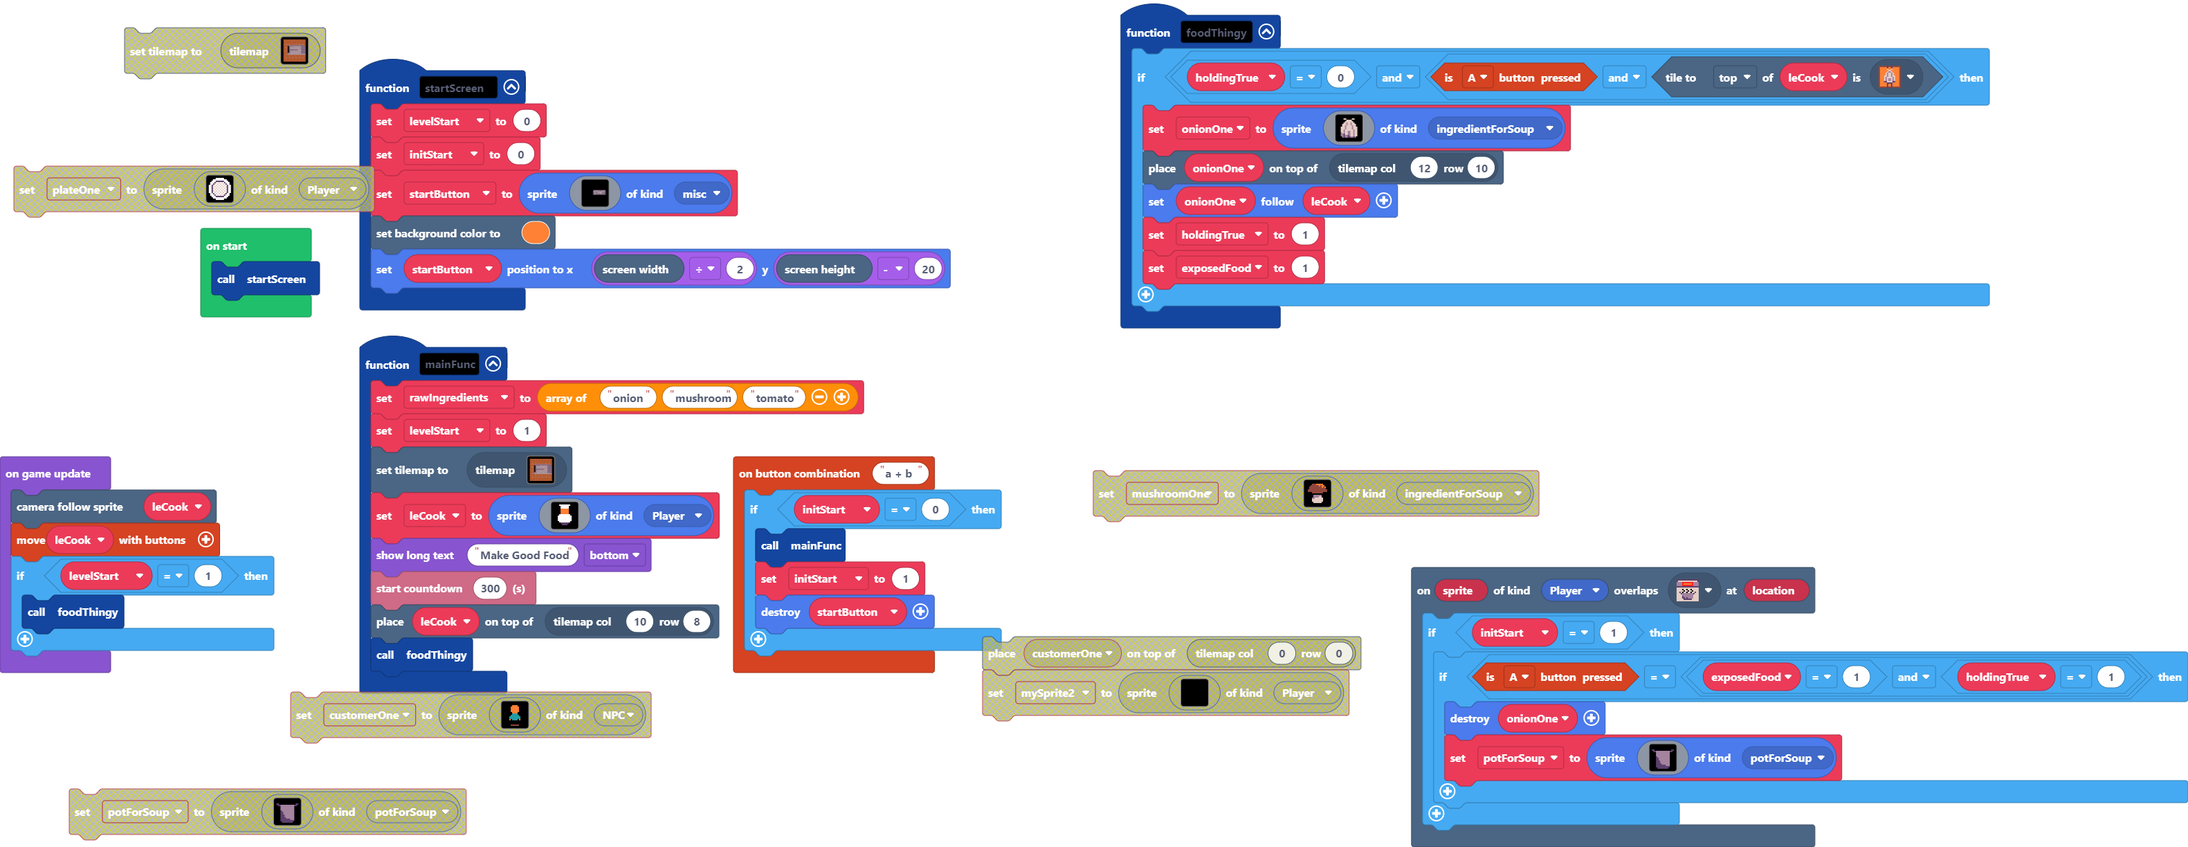
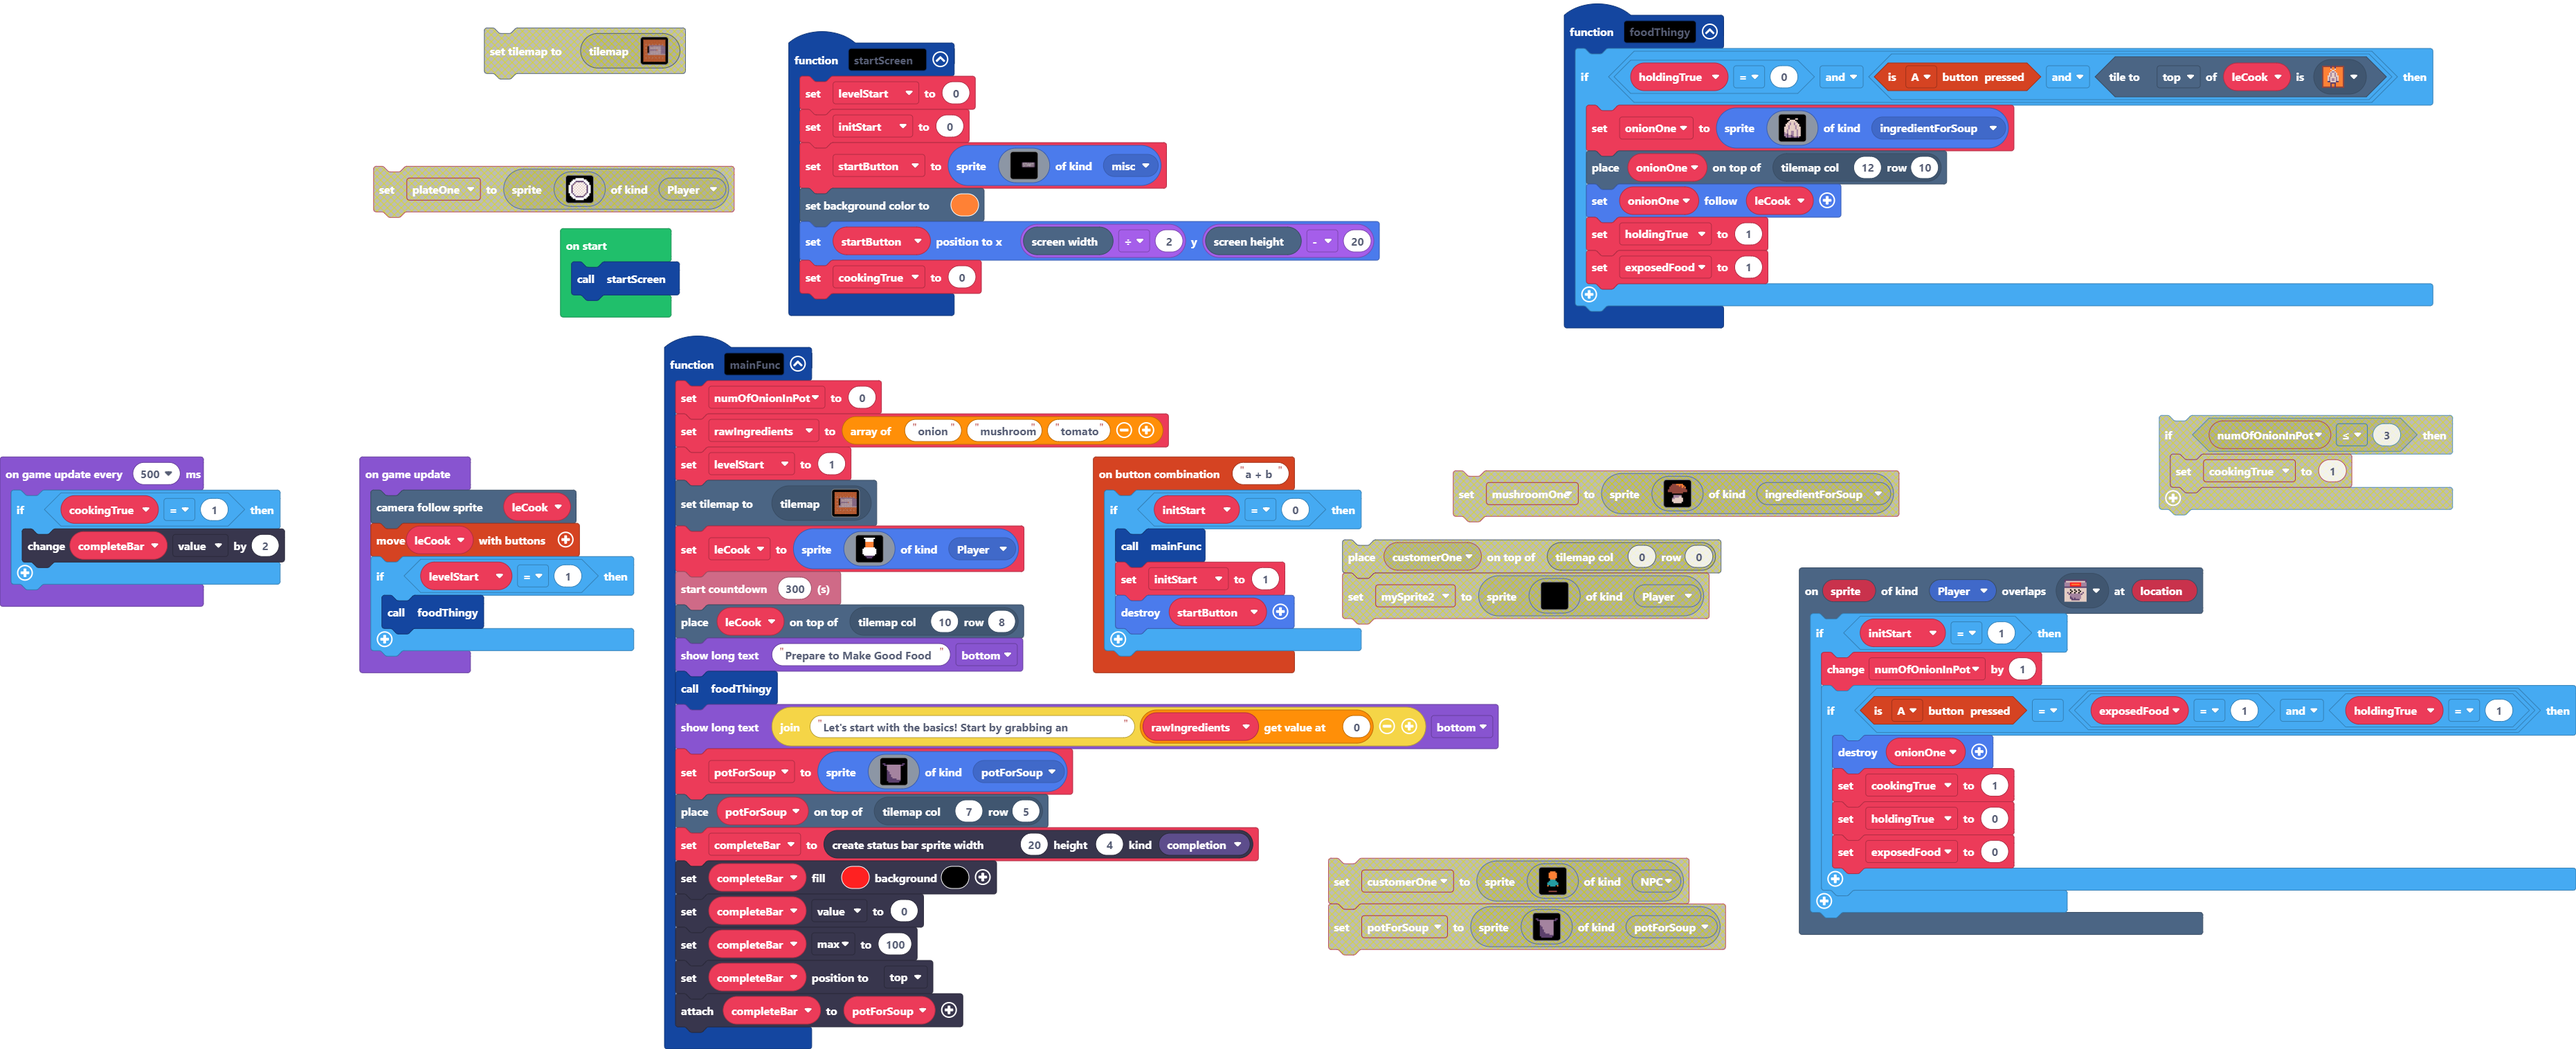
Update main.blocks, main.ts

diff --git a/main.ts b/main.ts
@@ -4,28 +4,17 @@ namespace SpriteKind {
     export const potForSoup = SpriteKind.create()
     export const ingredientForSoup = SpriteKind.create()
 }
+namespace StatusBarKind {
+    export const completion = StatusBarKind.create()
+}
 scene.onOverlapTile(SpriteKind.Player, assets.tile`myTile6`, function (sprite, location) {
     if (initStart == 1) {
+        numOfOnionInPot += 1
         if (controller.A.isPressed() == (exposedFood == 1 && holdingTrue == 1)) {
             onionOne.destroy()
-            potForSoup = sprites.create(img`
-                . . . . . . . . . . . . . . . . 
-                . . . . . . . . . . . . . . . . 
-                c c . . . . . . . . . . . . c c 
-                . c c b b b b b b b b b b c c . 
-                . . . b b b b b b b b b b . . . 
-                . . . b b b b b b b b b b . . . 
-                . . . b b b b b b b b b b . . . 
-                . . . c b b b b b b b b b . . . 
-                . . . c c b b b b b b b b . . . 
-                . . . c c b b b b b b b b . . . 
-                . . . c c c b b b b b b b . . . 
-                . . . c c c b b b b b b b . . . 
-                . . . c c c c b b b b b b . . . 
-                . . . c c c c c c c b b b . . . 
-                . . . c c c c c c c c c c . . . 
-                . . . . c c c c c c c c . . . . 
-                `, SpriteKind.potForSoup)
+            cookingTrue = 1
+            holdingTrue = 0
+            exposedFood = 0
         }
     }
 })
@@ -37,6 +26,7 @@ controller.combos.attachCombo("a + b", function () {
     }
 })
 function mainFunc () {
+    numOfOnionInPot = 0
     rawIngredients = ["onion", "mushroom", "tomato"]
     levelStart = 1
     tiles.setCurrentTilemap(tilemap`level1`)
@@ -58,10 +48,36 @@ function mainFunc () {
         . . . . . . c c c c . . . . . . 
         . . . . f f f f f f f f . . . . 
         `, SpriteKind.Player)
-    game.showLongText("Make Good Food", DialogLayout.Bottom)
     info.startCountdown(300)
     tiles.placeOnTile(leCook, tiles.getTileLocation(10, 8))
+    game.showLongText("Prepare to Make Good Food", DialogLayout.Bottom)
     foodThingy()
+    game.showLongText("Let's start with the basics! Start by grabbing an" + rawIngredients[0], DialogLayout.Bottom)
+    potForSoup = sprites.create(img`
+        . . . . . . . . . . . . . . . . 
+        . . . . . . . . . . . . . . . . 
+        c c . . . . . . . . . . . . c c 
+        . c c b b b b b b b b b b c c . 
+        . . . b b b b b b b b b b . . . 
+        . . . b b b b b b b b b b . . . 
+        . . . b b b b b b b b b b . . . 
+        . . . c b b b b b b b b b . . . 
+        . . . c c b b b b b b b b . . . 
+        . . . c c b b b b b b b b . . . 
+        . . . c c c b b b b b b b . . . 
+        . . . c c c b b b b b b b . . . 
+        . . . c c c c b b b b b b . . . 
+        . . . c c c c c c c b b b . . . 
+        . . . c c c c c c c c c c . . . 
+        . . . . c c c c c c c c . . . . 
+        `, SpriteKind.potForSoup)
+    tiles.placeOnTile(potForSoup, tiles.getTileLocation(7, 5))
+    completeBar = statusbars.create(20, 4, StatusBarKind.completion)
+    completeBar.setColor(2, 15)
+    completeBar.value = 0
+    completeBar.max = 100
+    completeBar.positionDirection(CollisionDirection.Top)
+    completeBar.attachToSprite(potForSoup)
 }
 function startScreen () {
     levelStart = 0
@@ -86,6 +102,7 @@ function startScreen () {
         `, SpriteKind.misc)
     scene.setBackgroundColor(4)
     startButton.setPosition(scene.screenWidth() / 2, scene.screenHeight() - 20)
+    cookingTrue = 0
 }
 function foodThingy () {
     if (holdingTrue == 0 && (controller.A.isPressed() && leCook.tileKindAt(TileDirection.Top, assets.tile`myTile`))) {
@@ -96,14 +113,17 @@ function foodThingy () {
         exposedFood = 1
     }
 }
+let completeBar: StatusBarSprite = null
+let potForSoup: Sprite = null
 let leCook: Sprite = null
 let levelStart = 0
 let rawIngredients: string[] = []
 let startButton: Sprite = null
-let potForSoup: Sprite = null
+let cookingTrue = 0
 let onionOne: Sprite = null
 let holdingTrue = 0
 let exposedFood = 0
+let numOfOnionInPot = 0
 let initStart = 0
 startScreen()
 game.onUpdate(function () {
@@ -111,5 +131,10 @@ game.onUpdate(function () {
     controller.moveSprite(leCook)
     if (levelStart == 1) {
         foodThingy()
+    }
+})
+game.onUpdateInterval(500, function () {
+    if (cookingTrue == 1) {
+        completeBar.value += 2
     }
 })
